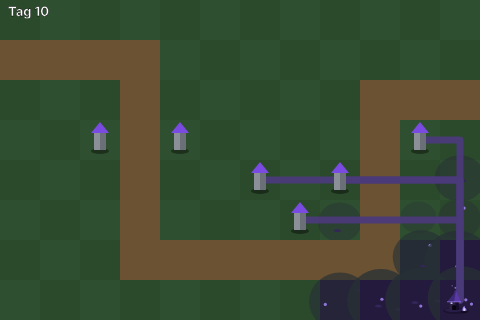
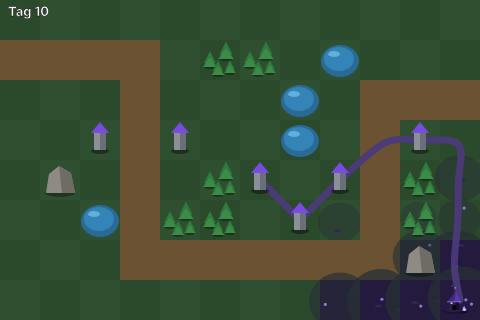
Welt-Entwurf: Wege geschwungen um Biome
Claude-Session: https://claude.ai/code/session_012Nsno37nEjc4wateER8C5H

diff --git a/tools/dorf/dorf.html b/tools/dorf/dorf.html
@@ -157,6 +157,7 @@ const GRASS=['#2b4a2b','#2f5030'];
 const MON=[[0,1],[3,1],[3,6],[9,6],[9,2],[11,2]];            // Monsterweg (Kacheln)
 const TOW=[[10,3],[8,4],[7,5],[6,4],[4,3],[2,3]];             // Türme, nach Abstand zum Dorf
 const VIL=[11,7];
+const BIO=[['w',10,4],['w',10,5],['f',10,6],['s',7,3],['s',7,2],['w',5,4],['w',5,5],['w',4,5],['s',2,5],['f',1,4],['w',5,1],['w',6,1],['s',8,1]];
 const STG=[
  {t:'Tag 1',v:0,R:0,np:0,pave:0},
  {t:'Tag 10',v:2,R:2.0,np:4,pave:0},
@@ -185,13 +186,32 @@ function welt(k,si){
    }
   }
  }
- // Wege Dorf → Türme
- const R=W.road,E=W.roadE;
- const pw=(x,y)=>[(x+.5)*T,(y+.5)*T];
- for(let i=0;i<S.np;i++){const [tx,ty]=TOW[i],[ax,ay]=pw(VIL[0],VIL[1]),[bx,by]=pw(tx,ty),d=`M${ax} ${ay}V${by}H${bx}`;
-  if(S.pave===2) b+=`<path d="${d}" stroke="${E}" stroke-width="17" fill="none" stroke-linejoin="round" stroke-linecap="round"/><path d="${d}" stroke="${R}" stroke-width="13" fill="none" stroke-linejoin="round" stroke-linecap="round"/><path d="${d}" stroke="${E}" stroke-width="13" fill="none" stroke-linejoin="round" stroke-dasharray="1.5 7.5" opacity=".55"/>`;
+ // Biome (bleiben im umgewandelten Boden sichtbar)
+ for(const [t,x,y] of BIO){const px=x*T,py=y*T;
+  if(t==='w'){for(const [ox,oy,sc] of [[10,26,1],[26,18,1.1],[18,34,.9],[30,32,.8]]){const X=px+ox,Y=py+oy;b+=`<ellipse cx="${X}" cy="${Y+1}" rx="${6*sc}" ry="2" fill="#0005"/><path d="M${X} ${Y-15*sc}L${X-6*sc} ${Y-3*sc}H${X+6*sc}Z" fill="#2f7a3c"/><path d="M${X} ${Y-9*sc}L${X-7*sc} ${Y+1}H${X+7*sc}Z" fill="#3a8c46"/><path d="M${X} ${Y-15*sc}V${Y-3}" stroke="#25602e" stroke-width="0"/>`}}
+  if(t==='s')b+=`<ellipse cx="${px+20}" cy="${py+21}" rx="19" ry="16" fill="#2a6a96"/><ellipse cx="${px+19}" cy="${py+19}" rx="15" ry="12" fill="#3484b8"/><ellipse cx="${px+14}" cy="${py+14}" rx="6" ry="3" fill="#5fb0dc"/>`;
+  if(t==='f')b+=`<ellipse cx="${px+20}" cy="${py+33}" rx="15" ry="4" fill="#0005"/><path d="M${px+6} ${py+33}L${px+9} ${py+14}L${px+19} ${py+6}L${px+31} ${py+13}L${px+35} ${py+33}Z" fill="#8f8b84"/><path d="M${px+19} ${py+6}L${px+31} ${py+13}L${px+35} ${py+33}H${px+22}Z" fill="#6f6b65"/>`;
+ }
+ // Wege Dorf → Türme: um Biome herum, geschwungen, wachsen als Astwerk (Start = Dorf oder nächstes Wegstück)
+ const R=W.road,E=W.roadE,pw=(x,y)=>[(x+.5)*T,(y+.5)*T];
+ const blocked=new Set(BIO.map(([t,x,y])=>x+','+y)),towSet=new Set(TOW.map(t=>t.join(',')));
+ const have=[VIL.join(',')],segs=[];
+ for(let i=0;i<6;i++){const tgt=TOW[i].join(',');
+  const dist={},prev={},q=[];for(const k0 of have){dist[k0]=0;q.push(k0)}
+  while(q.length){q.sort((u,v)=>dist[u]-dist[v]);const c=q.shift();if(c===tgt)break;const [cx0,cy0]=c.split(',').map(Number);
+   for(let dx=-1;dx<=1;dx++)for(let dy=-1;dy<=1;dy++){if(!dx&&!dy)continue;const nx=cx0+dx,ny=cy0+dy,nk=nx+','+ny;if(nx<0||ny<0||nx>11||ny>7)continue;
+    if(blocked.has(nk)||(towSet.has(nk)&&nk!==tgt))continue;if(dx&&dy&&(blocked.has((cx0+dx)+','+cy0)||blocked.has(cx0+','+(cy0+dy))))continue;
+    const w=(dx&&dy?1.45:1)*(onMon.has(nk)?4:1)+hs(nx,ny,5)*.5,nd=dist[c]+w;if(dist[nk]===undefined||nd<dist[nk]-1e-9){dist[nk]=nd;prev[nk]=c;if(!q.includes(nk))q.push(nk)}}}
+  const pts=[];let c=tgt;while(c&&!have.includes(c)){pts.unshift(c);c=prev[c]}pts.unshift(c);
+  for(const k0 of pts)if(!have.includes(k0))have.push(k0);segs.push(pts);}
+ const curve=(pts,i)=>{const P=pts.map((k0,j)=>{const [x,y]=k0.split(',').map(Number),[px,py]=pw(x,y);return j===0||j===pts.length-1?[px,py]:[px+(hs(x,y,7+i)-.5)*12,py+(hs(x,y,8+i)-.5)*12]});
+  if(P.length<2)return '';let d=`M${P[0][0]} ${P[0][1]}`;
+  for(let j=0;j<P.length-1;j++){const p0=P[Math.max(0,j-1)],p1=P[j],p2=P[j+1],p3=P[Math.min(P.length-1,j+2)];
+   d+=`C${p1[0]+(p2[0]-p0[0])/6} ${p1[1]+(p2[1]-p0[1])/6} ${p2[0]-(p3[0]-p1[0])/6} ${p2[1]-(p3[1]-p1[1])/6} ${p2[0]} ${p2[1]}`}return d};
+ for(let i=0;i<S.np;i++){const d=curve(segs[i],i);if(!d)continue;
+  if(S.pave===2) b+=`<path d="${d}" stroke="${E}" stroke-width="17" fill="none" stroke-linejoin="round" stroke-linecap="round"/><path d="${d}" stroke="${R}" stroke-width="13" fill="none" stroke-linejoin="round" stroke-linecap="round"/><path d="${d}" stroke="${E}" stroke-width="13" fill="none" stroke-dasharray="1.5 7.5" opacity=".55"/>`;
   else if(S.pave===1) b+=`<path d="${d}" stroke="${E}" stroke-width="13" fill="none" stroke-linejoin="round" stroke-linecap="round"/><path d="${d}" stroke="${R}" stroke-width="9" fill="none" stroke-linejoin="round" stroke-linecap="round"/>`;
-  else b+=`<path d="${d}" stroke="${R}" stroke-width="7" fill="none" stroke-linejoin="round" stroke-linecap="round" stroke-dasharray="${i?'':'1 0'}" opacity=".95"/>`;
+  else b+=`<path d="${d}" stroke="${R}" stroke-width="7" fill="none" stroke-linejoin="round" stroke-linecap="round" opacity=".95"/>`;
  }
  // Türme
  for(let i=0;i<TOW.length;i++){const [tx,ty]=pw(...TOW[i]),a=W.acc;b+=`<ellipse cx="${tx}" cy="${ty+11}" rx="9" ry="3" fill="#0006"/><rect x="${tx-6}" y="${ty-8}" width="12" height="18" fill="#8a8f98"/><rect x="${tx}" y="${ty-8}" width="6" height="18" fill="#6b7078"/><path d="M${tx-9} ${ty-7}L${tx} ${ty-18}L${tx+9} ${ty-7}Z" fill="${k==='e'?'#79c6ee':k==='s'?'#7a4be0':k==='f'?'#e8590c':'#a4753e'}"/>`}
@@ -201,7 +221,7 @@ function welt(k,si){
  b+=`<text x="8" y="16" font-size="13" font-weight="700" fill="${k==='e'?'#2f5a78':'#fff'}" stroke="${k==='e'?'#fff':'#000'}" stroke-width=".4">${S.t}</text>`;
  return svg('0 0 480 320',480,320,b);
 }
-h+=`<h2>4 · Welt um das Dorf: Boden wandelt sich, Wege wachsen (Vorschlag 27.10.)</h2><p class="n">Ausschnitt 12 × 8 Felder, Dorf in der Ecke unten rechts (Wege kreuzen den Monsterweg, laufen darüber hinweg). Braun = Monsterweg (bleibt unverändert, immer gut erkennbar). Vom Dorf aus wächst der Boden in Ringen zum Element um (Asche, Schnee, Violett, Geröll), unregelmäßig, nicht kreisrund. Wege: Tag 10 Trampelpfade zu 4 Türmen, Tag 22 zu 5, Tag 36 gepflasterte Straße zu allen 6, Tag 42 Straße mit Rand zu allen.</p>`;
+h+=`<h2>4 · Welt um das Dorf: Boden wandelt sich, Wege wachsen (Vorschlag 27.10.)</h2><p class="n">Ausschnitt 12 × 8 Felder, Dorf in der Ecke unten rechts (Wege biegen um Wald, Felsen und See und kreuzen den Monsterweg nur, wo es sein muss). Braun = Monsterweg (bleibt unverändert, immer gut erkennbar). Vom Dorf aus wächst der Boden in Ringen zum Element um (Asche, Schnee, Violett, Geröll), unregelmäßig, nicht kreisrund. Wege: Tag 10 Trampelpfade zu 4 Türmen, Tag 22 zu 5, Tag 36 gepflasterte Straße zu allen 6, Tag 42 Straße mit Rand zu allen.</p>`;
 for(const k of KS){h+=`<div class="row"><div class="lab">${SN[k]}</div>`;for(let i=0;i<5;i++)h+=cell(`welt-${k}-${i}`,STG[i].t,welt(k,i));h+='</div>';}
 out.innerHTML=h;
 </script>
